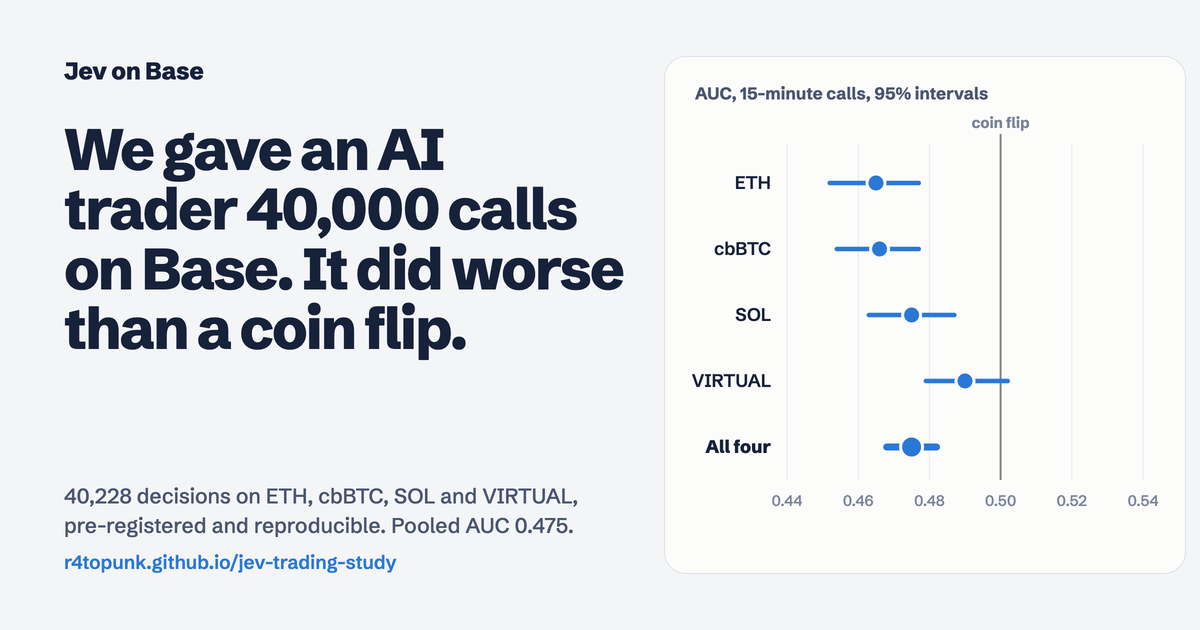
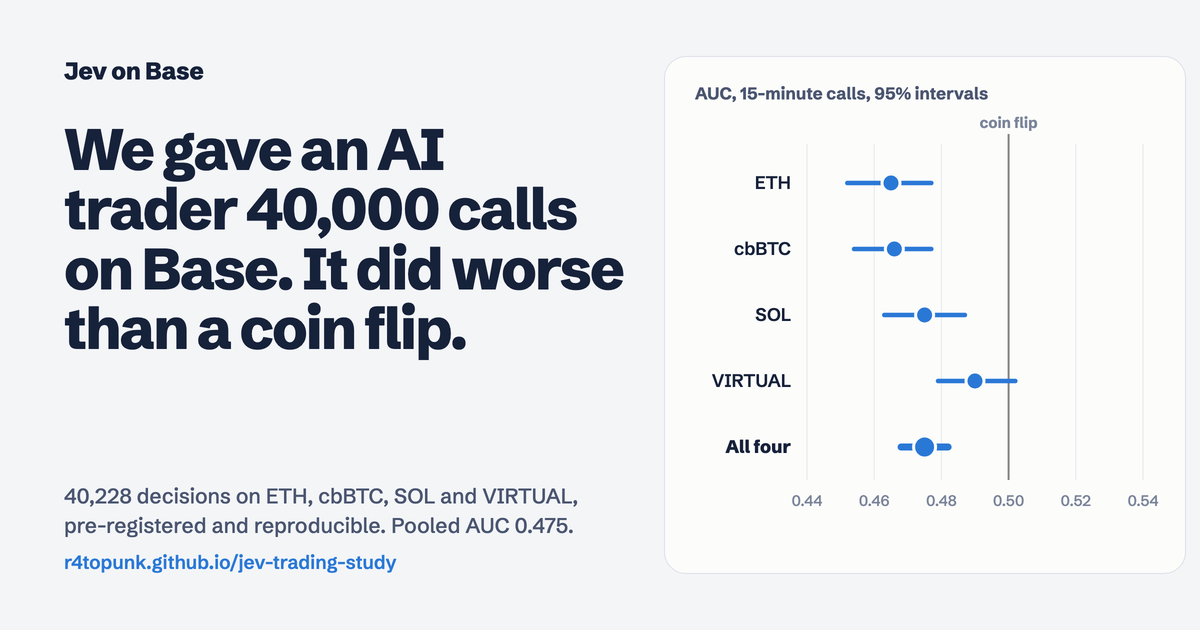
Portuguese share URL and preview image
- docs/og-pt.png rendered from scripts/og/og.html?lang=pt.
- docs/pt/index.html carries Portuguese Open Graph and Twitter Card tags for
  link previews and sends browsers to the page with ?lang=pt.

diff --git a/scripts/og/og.html b/scripts/og/og.html
@@ -1,10 +1,11 @@
 <!doctype html>
 <!--
-  Social preview for the study page (docs/og.png, 1200x630). Reads docs/data/study.json. To regenerate:
+  Social preview for the study page: docs/og.png (EN) and docs/og-pt.png (?lang=pt), 1200x630. Reads docs/data/study.json.
+  To regenerate:
     python3 -m http.server 8765        # from the repo root
     chrome --headless=new --hide-scrollbars --force-device-scale-factor=2 --window-size=1200,630 \
       --virtual-time-budget=5000 --screenshot=og@2x.png http://localhost:8765/scripts/og/og.html
-  then downscale og@2x.png to 1200x630 as docs/og.png.
+  then downscale og@2x.png to 1200x630 as docs/og.png. Add ?lang=pt to the URL for docs/og-pt.png.
 -->
 <html lang="en">
 <head>
@@ -25,36 +26,50 @@
 </head>
 <body>
   <div class="left">
-    <div class="brand">Jev on Base</div>
-    <h1>We gave an AI trader 40,000 calls on Base. It did worse than a coin flip.</h1>
+    <div class="brand" id="brand">Jev on Base</div>
+    <h1 id="title">We gave an AI trader 40,000 calls on Base. It did worse than a coin flip.</h1>
     <div class="sub" id="sub"></div>
-    <div class="url">r4topunk.github.io/jev-trading-study</div>
+    <div class="url" id="url">r4topunk.github.io/jev-trading-study</div>
   </div>
   <div class="card">
-    <p class="card-title">AUC, 15-minute calls, 95% intervals</p>
+    <p class="card-title" id="card-title">AUC, 15-minute calls, 95% intervals</p>
     <svg id="c" width="476" height="440" viewBox="0 0 476 440"></svg>
   </div>
 <script type="module">
+  const pt = new URLSearchParams(location.search).get('lang') === 'pt'
+  const L = pt
+    ? { brand: 'Jev na Base', title: 'Um trader de IA tomou 40 mil decisões na Base. Foi pior que cara ou coroa.', card: 'AUC das decisões de 15 min, intervalos de 95%', coin: 'cara ou coroa', all: 'Os quatro', loc: 'pt-BR',
+        sub: (n, a) => `${n} decisões em ETH, cbBTC, SOL e VIRTUAL, com pré-registro e reproduzível. AUC agregada ${a}.` }
+    : { coin: 'coin flip', all: 'All four', loc: 'en-US', sub: (n, a) => `${n} decisions on ETH, cbBTC, SOL and VIRTUAL, pre-registered and reproducible. Pooled AUC ${a}.` }
+  if (pt) {
+    document.documentElement.lang = 'pt-BR'
+    document.getElementById('brand').textContent = L.brand
+    document.getElementById('title').textContent = L.title
+    document.getElementById('title').style.fontSize = '54px'
+    document.getElementById('card-title').textContent = L.card
+    document.getElementById('url').textContent = 'r4topunk.github.io/jev-trading-study/pt'
+  }
+  const fmt = (v, d) => new Intl.NumberFormat(L.loc, { minimumFractionDigits: d, maximumFractionDigits: d }).format(v)
   const D = await (await fetch('../../docs/data/study.json')).json()
   const NS = 'http://www.w3.org/2000/svg', svg = document.getElementById('c')
   const el = (tag, a) => { const n = document.createElementNS(NS, tag); for (const k in a) n.setAttribute(k, a[k]); svg.appendChild(n); return n }
   const text = (x, y, s, a) => { const n = el('text', { x, y, ...a }); n.textContent = s }
-  const rows = [...D.markets.map((m) => ({ name: m.symbol, ...m.horizons.find((h) => h.h === 15) })), { name: 'All four', ...D.pooled, all: true }]
-  const left = 100, right = 20, top = 40, rowH = 66, w = 476
+  const rows = [...D.markets.map((m) => ({ name: m.symbol, ...m.horizons.find((h) => h.h === 15) })), { name: L.all, ...D.pooled, all: true }]
+  const left = 120, right = 20, top = 40, rowH = 66, w = 476
   const x = (v) => left + ((v - 0.44) / (0.54 - 0.44)) * (w - left - right)
   for (const v of [0.44, 0.46, 0.48, 0.5, 0.52, 0.54]) {
     el('line', { x1: x(v), x2: x(v), y1: top - 6, y2: top + rows.length * rowH, stroke: '#e6e9ee', 'stroke-width': 1 })
-    text(x(v), top + rows.length * rowH + 26, v.toFixed(2), { 'text-anchor': 'middle', fill: '#7a8499', 'font-size': 15 })
+    text(x(v), top + rows.length * rowH + 26, fmt(v, 2), { 'text-anchor': 'middle', fill: '#7a8499', 'font-size': 15 })
   }
   el('line', { x1: x(0.5), x2: x(0.5), y1: top - 16, y2: top + rows.length * rowH, stroke: '#898781', 'stroke-width': 2 })
-  text(x(0.5), top - 22, 'coin flip', { 'text-anchor': 'middle', fill: '#7a8499', 'font-size': 15, 'font-weight': 700 })
+  text(x(0.5), top - 22, L.coin, { 'text-anchor': 'middle', fill: '#7a8499', 'font-size': 15, 'font-weight': 700 })
   rows.forEach((r, i) => {
     const cy = top + i * rowH + rowH / 2
     text(left - 16, cy + 6, r.name, { 'text-anchor': 'end', fill: '#16213a', 'font-size': 18, 'font-weight': r.all ? 800 : 600 })
     el('line', { x1: x(r.lo), x2: x(r.hi), y1: cy, y2: cy, stroke: '#2a78d6', 'stroke-width': r.all ? 7 : 4.5, 'stroke-linecap': 'round' })
     el('circle', { cx: x(r.auc), cy, r: r.all ? 11 : 9, fill: '#2a78d6', stroke: '#fcfcfb', 'stroke-width': 3 })
   })
-  document.getElementById('sub').textContent = `${D.totals.decisions.toLocaleString('en-US')} decisions on ETH, cbBTC, SOL and VIRTUAL, pre-registered and reproducible. Pooled AUC ${D.pooled.auc.toFixed(3)}.`
+  document.getElementById('sub').textContent = L.sub(D.totals.decisions.toLocaleString(L.loc), fmt(D.pooled.auc, 3))
   document.body.dataset.ready = '1'
 </script>
 </body>

diff --git a/docs/pt/index.html b/docs/pt/index.html
@@ -1,0 +1,28 @@
+<!doctype html>
+<!-- Portuguese share URL: link-preview bots read these tags (they do not run scripts); browsers go to the page in PT. -->
+<html lang="pt-BR">
+<head>
+  <meta charset="utf-8">
+  <meta name="viewport" content="width=device-width, initial-scale=1">
+  <title>Jev na Base: um estudo de trading</title>
+  <meta name="description" content="Comparei 40.228 decisões de trading do modelo Jev com o que o preço fez depois. Foi pior que cara ou coroa. Pré-registrado, reproduzível e de código aberto.">
+  <meta property="og:title" content="Um trader de IA tomou 40 mil decisões na Base. Foi pior que cara ou coroa.">
+  <meta property="og:description" content="Teste pré-registrado e reproduzível dos bots virais do Jev: 90 dias, quatro mercados da Base, cada decisão comparada com o preço.">
+  <meta property="og:type" content="article">
+  <meta property="og:locale" content="pt_BR">
+  <meta property="og:url" content="https://r4topunk.github.io/jev-trading-study/pt/">
+  <meta property="og:image" content="https://r4topunk.github.io/jev-trading-study/og-pt.png">
+  <meta property="og:image:width" content="1200">
+  <meta property="og:image:height" content="630">
+  <meta property="og:image:alt" content="AUC das decisões de 15 minutos do Jev em ETH, cbBTC, SOL, VIRTUAL e nos quatro juntos, todas à esquerda da linha de cara ou coroa em 0,5.">
+  <meta name="twitter:card" content="summary_large_image">
+  <meta name="twitter:title" content="Um trader de IA tomou 40 mil decisões na Base. Foi pior que cara ou coroa.">
+  <meta name="twitter:description" content="Teste pré-registrado e reproduzível dos bots virais do Jev: 90 dias, quatro mercados da Base, cada decisão comparada com o preço.">
+  <meta name="twitter:image" content="https://r4topunk.github.io/jev-trading-study/og-pt.png">
+  <link rel="canonical" href="https://r4topunk.github.io/jev-trading-study/">
+  <script>location.replace('../?lang=pt' + location.hash)</script>
+</head>
+<body>
+  <p><a href="../?lang=pt">Abrir o estudo em português</a></p>
+</body>
+</html>

diff --git a/README.md b/README.md
@@ -54,7 +54,7 @@ node arb/scan.ts                                                          # Limi
 node scripts/site-data.ts                                                 # → docs/data/study.json: also flipped Jev vs free models and the flow-sign check
 ```
 
-The social preview `docs/og.png` is rendered from [`scripts/og/og.html`](scripts/og/og.html) (instructions inside).
+The social previews `docs/og.png` and `docs/og-pt.png` are rendered from [`scripts/og/og.html`](scripts/og/og.html) (instructions inside). Share `/pt/` for a Portuguese link card.
 Markets live in [`src/markets.ts`](src/markets.ts); adding a pool is one line. The public Base RPC works but caps
 `eth_getLogs` at 2,000 blocks and rate-limits. Set `BASE_RPC_URL` to a dedicated endpoint to go faster.
 
